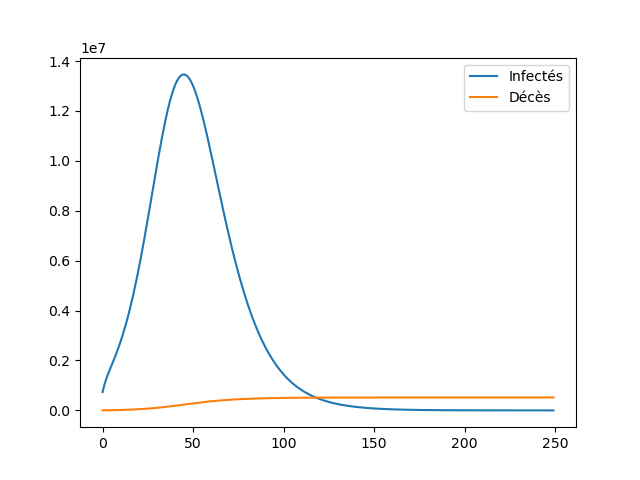
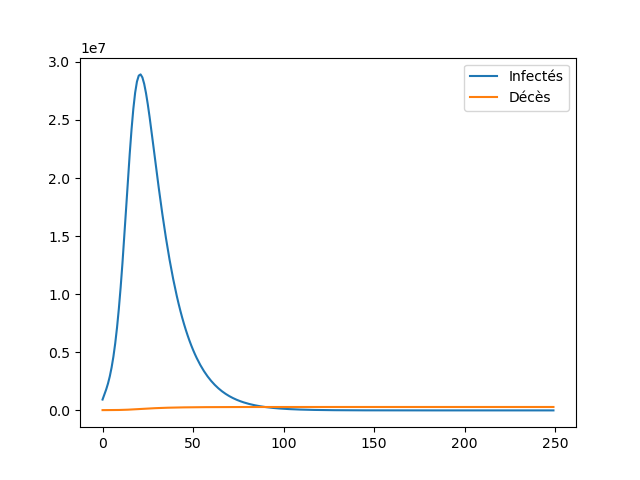
SCIRE

diff --git a/scire.py b/scire.py
@@ -53,7 +53,7 @@ if __name__ == '__main__':
     S0 = 1 - I0 - C0 #Taux Sain
     beta = 0.22
     lmbda = 15 # Durée d'infection
-    v = 5.1 # Nb incubation
+    v = 2 # Nb incubation non contagieux
     R0 = 3.3
     beta  = R0 / lmbda
     print(beta)
@@ -89,7 +89,7 @@ if __name__ == '__main__':
     C0 = ((23000 * 100) - 180000) / nbfrench  # Taux Contaminé
     I0 = C0 / 6  # Taux Infection
     S0 = 1 - I0 - C0  # Taux Sain
-    scire = SCIRE(S0, C0, I0, r0=0.5,v=v,lmbda=lmbda,mu=mu)
+    scire = SCIRE(S0, C0, I0, r0=1,v=v,lmbda=lmbda,mu=mu) #R0,0.01,R0*0.1,1
     scires = scire.compute(250)
     ctot = 1 - np.array([x.S for x in scires])
     c = np.array([x.C for x in scires])

diff --git a/readme.md b/readme.md
@@ -18,20 +18,19 @@
 <p>J'ai ensuite créé les modèles SCIRE et Machine Learning (ML) avec une regréssion polynômiale ridge de degré 4.</p>
 <img src="data/figure.png"/>
 <p>En date du 24/04</p>
-<p>Sans confinement, ni mesure de distanciation, les chiffres sont catastrophiques
 <p>Ci dessous l'état des lieux à la date du confinement J45 qui permet de trouver R0 = 4.2 au lieu de 3.3 admis aujourd'hui, le virus serait donc 25% plus virulent suivant mon modèle
 <img src="data/figure45.png">
-<p>Sans mesure de protection, le scénario suivant se serait alors produit
+<p>Sans confinement, ni protection, ni mesure de distanciation, les chiffres sont catastrophiques
 <img src="data/figure250.png">
 <ul>
     <li>1.3 millions d'infection</li>
-    <li>0.5 millions de décès en 250 jours avec le nombre de lit en réanimation adéquat</li>
-    <li>0.75 millions de décès en 250 jours pour 5000 lits de réanimation</li>
-    <li>Une pointe à 13000 morts en une journée avec le nombre de lit en réanimation nécessaire</li>
-    <li>Une pointe à 19000 morts en une journée pour 5000 lits de réanimation</li>
+    <li>250000 décès en 250 jours avec le nombre de lit en réanimation adéquat</li>
+    <li>+300000 décès en 250 jours pour 5000 lits de réanimation</li>
+    <li>Une pointe à 15000 morts par jour avec le nombre de lit en réanimation nécessaire</li>
+    <li>Une pointe à 20000 morts par jour pour 5000 lits de réanimation</li>
 </ul>
 
-<p>A la date du déconfinement le 11 mai (J128), le modèle ML nous donne des chiffres assez optimistes mais avec <b>une RValue (score) trop faible pour que ces chiffres soient fiables</b>
+<p>A la date du déconfinement le 11 mai (J128), le modèle ML nous donne des chiffres assez optimistes mais avec <b>une RValue (score) trop faible pour que ces chiffres soient fiables</b>, de plus le modèle SCIRE ne fonctionne pas car R varie pendant cette période, le taux d'erreur est donc énorme</b>
 <ul>
     <li>Nombre de nouveaux cas sera quasi nul!</li>
     <li>150000 cas confirmés</li>
@@ -49,9 +48,9 @@
 <p>Au déconfinement, le modèle SCIRE nous propose 4 scénarios
 <p>Scénario optimiste: Comme le SRAS et comme le propose le professeur Raoult, le virus quasi disparait, R=0.01
     <ul>
-        <li>D'après le modèle SCIRE, un pic d'infection très bref à J+6, puis le virus disparait assez rapidement à J+50</li>
-        <li>D'après le modèle ML, le virus quasi disparait immédiatement</li>
-        <li>Entre 23000 et 38000 décès au total</li>
+        <li>D'après le modèle SCIRE, un pic d'infection très bref, puis le virus disparait assez rapidement à J+50</li>
+        <li>D'après le modèle ML, le virus disparait immédiatement</li>
+        <li>Entre 23000 et 27000 décès au total</li>
     </ul>
     <img src="data/figured1.png">
 <p>Scénario pessimiste: le confinement est un échèc, R=R0, peu probable car ne se produit pas ailleurs dans le monde
@@ -60,18 +59,19 @@
         <li>40000 décès au total avec reconfinement, 500000 sans</li>
     </ul>
     <img src="data/figured2.png">
-<p>Scénario médian: les mesures de protection fonctionnent avec 90% de détection, isolement, un été protecteur, R=0.1
+<p>Scénario médian: les mesures de protection fonctionnent avec 90% de détection, isolement, un été protecteur, R=R0*0.1
     <ul>
-        <li>D'après SCIRE, un petit pic en Juin, un été clément, un second pic modeste à l'automne, 43000 décès au total sur 250 jours</li>
-        <li>D'après le modèle ML, un été très clément, un second petit pic à l'automne, 30000 décès au total sur 250 jours</li>
+        <li>Une petite reprise rapide, un été clément</li>
+        <li>Un second pic modeste à l'automne, <40000 décès au total sur 250 jours</li>
     </ul>
     <img src="data/figured3.png">
-<p>Scénario médian-pessimiste: les mesures de protection fonctionnent moyennement, R = 0.5
+<p>Scénario médian-pessimiste: les mesures de protection fonctionnent moyennement ou déconfinement trop rapide, R = 1
     <ul>
-        <li>Grande divergence entre les modèles</li>
-        <li>D'après le modèle SCIRE, un second pic plus ravageur entre Juillet et Novembre, reconfinement rapide</li>
-        <li>D'après le modèle ML, un second pic à l'automne, aussi intense que celui du printemps mais plus étalé, reconfinement possible, 40000 à 50000 décès</li>
+        <li>Divergence entre les modèles</li>
+        <li>D'après le modèle SCIRE, un second pic entre Juillet et Novembre, reconfinement possible, 200000 décès possible</li>
+        <li>D'après le modèle ML, un second pic à l'automne mais plus étalé qu'au printemps, 40000 à 50000 décès</li>
     </ul>
+    <img src="data/figured4.png">
 <p>La moindre variation du paramètre R peut complètement modifier l'évolution de l'épidémie, ma conclusion est donc de rester modeste</p>
 <p>Comme le montre le sud de la France et l'Afrique, les temps secs et chaud semble diminuer fortement R, donc soyons optimiste</p>
 
